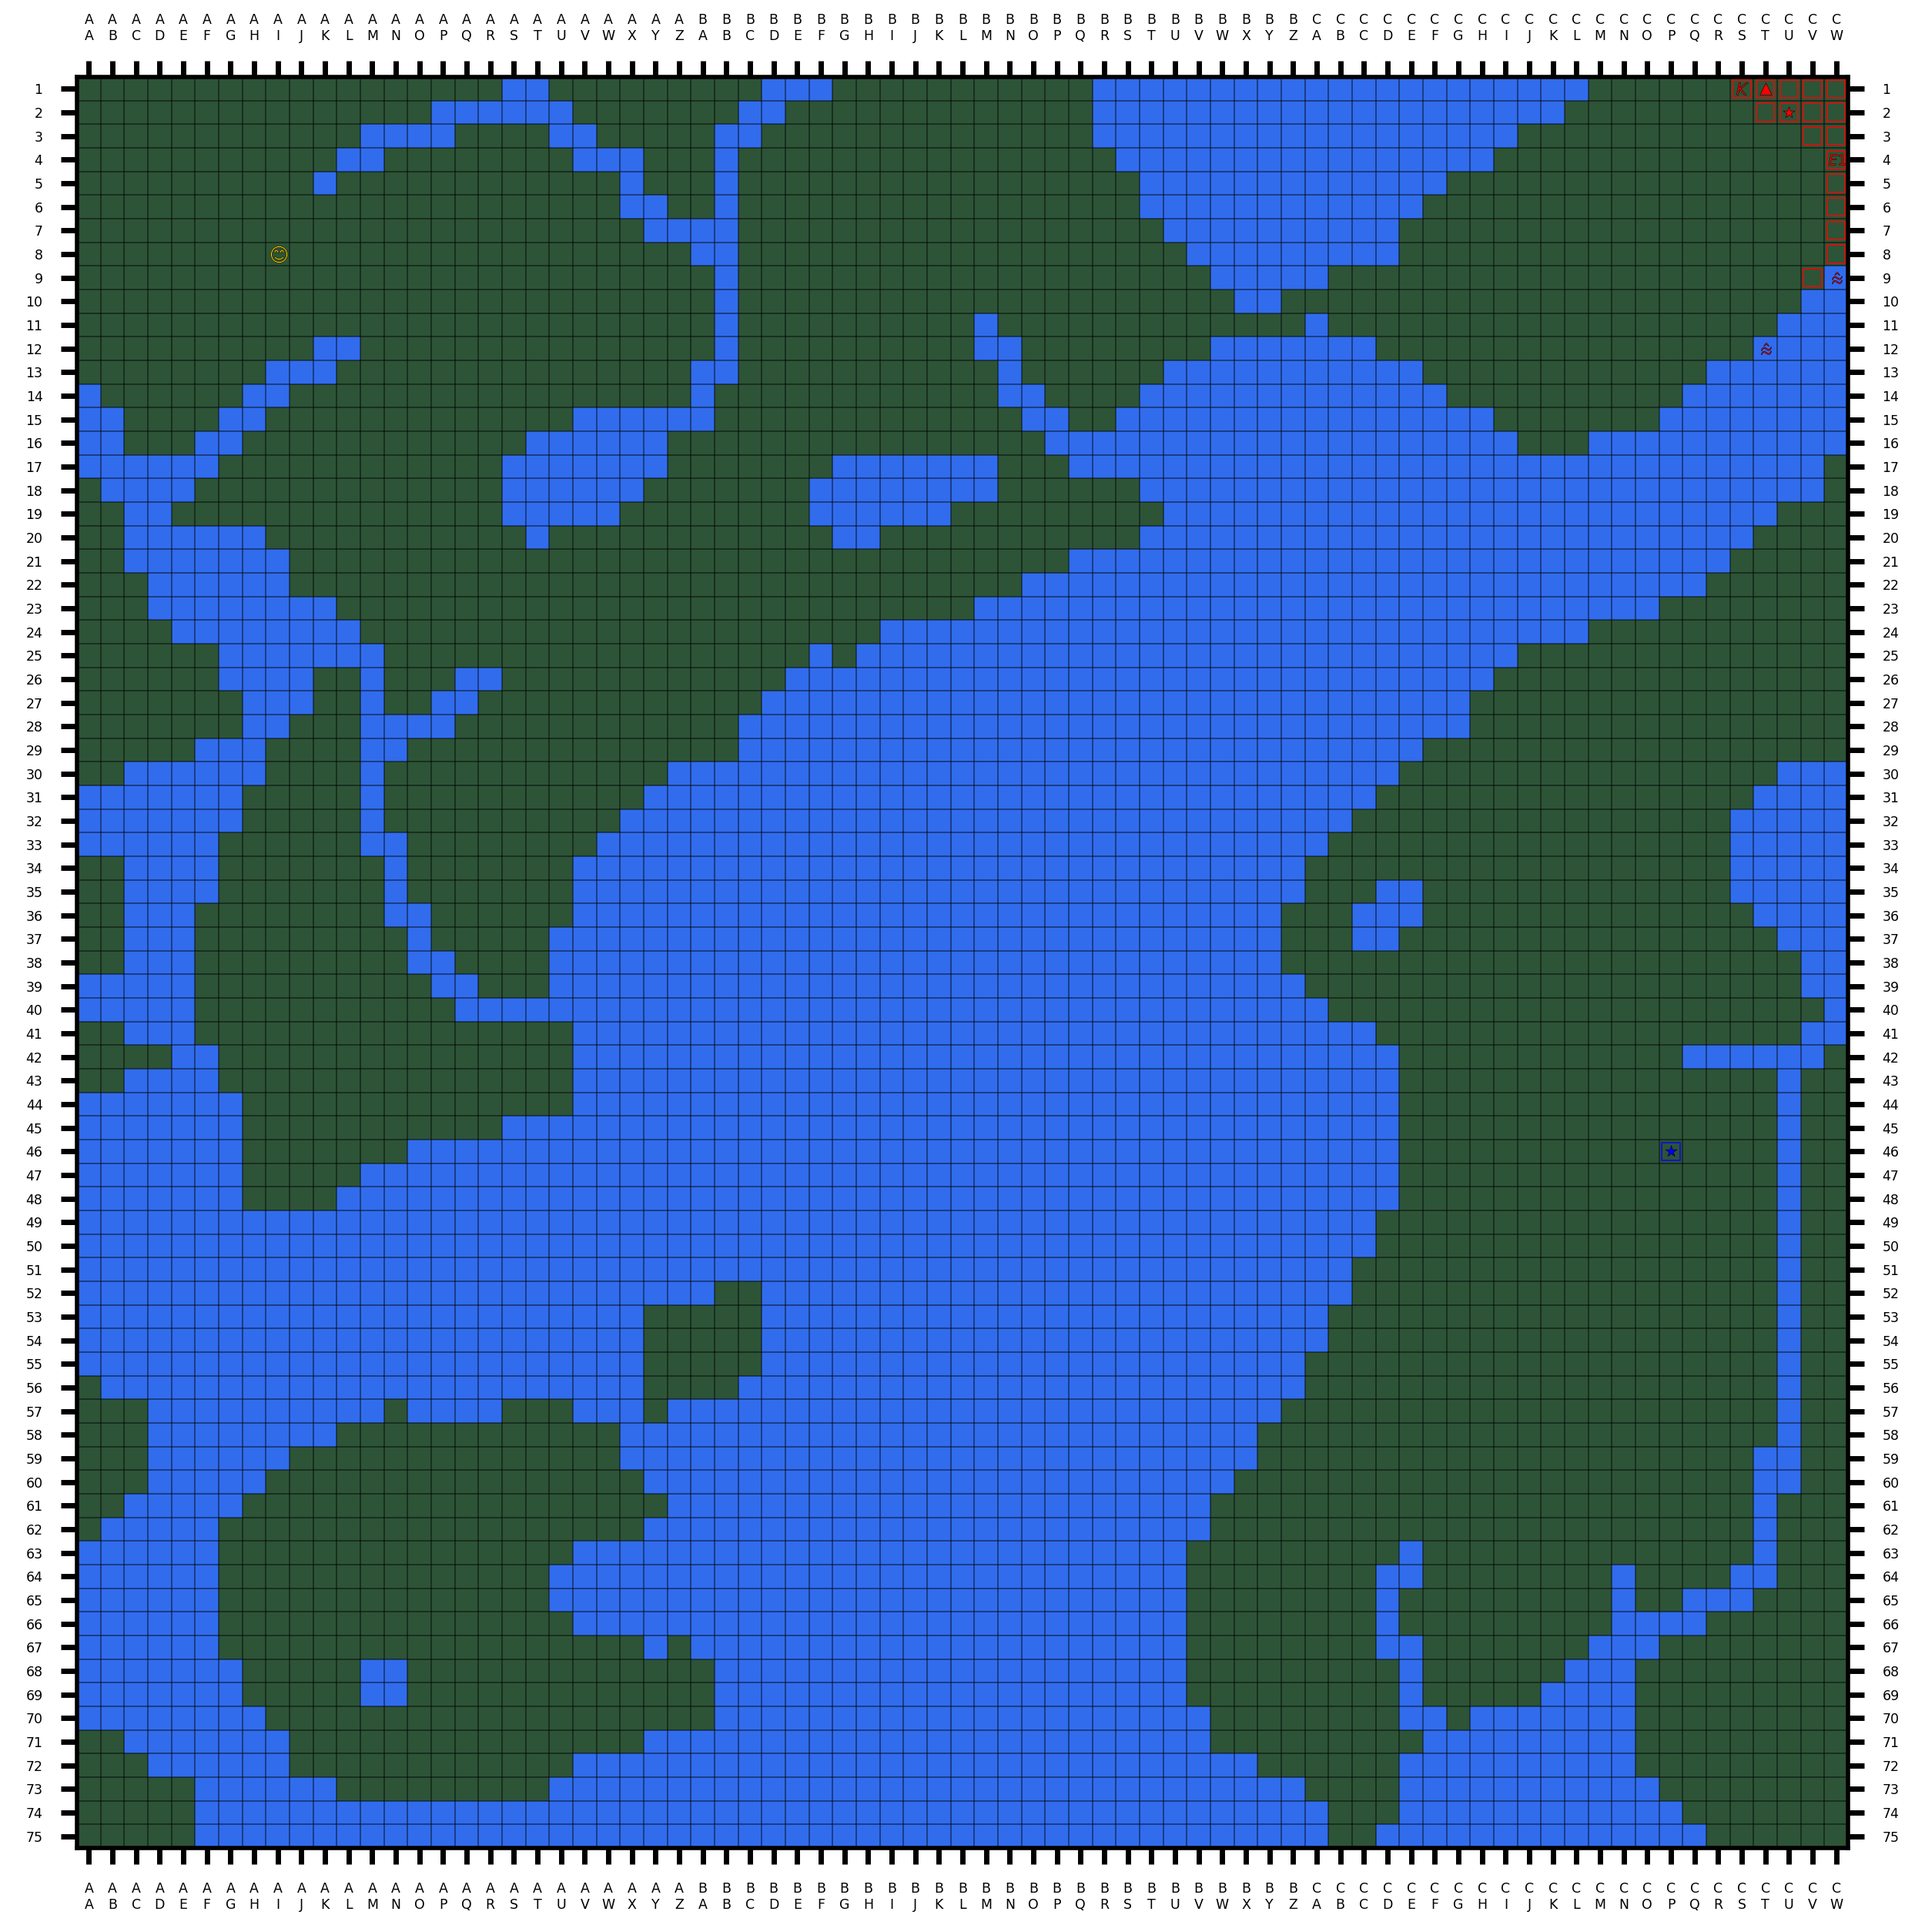
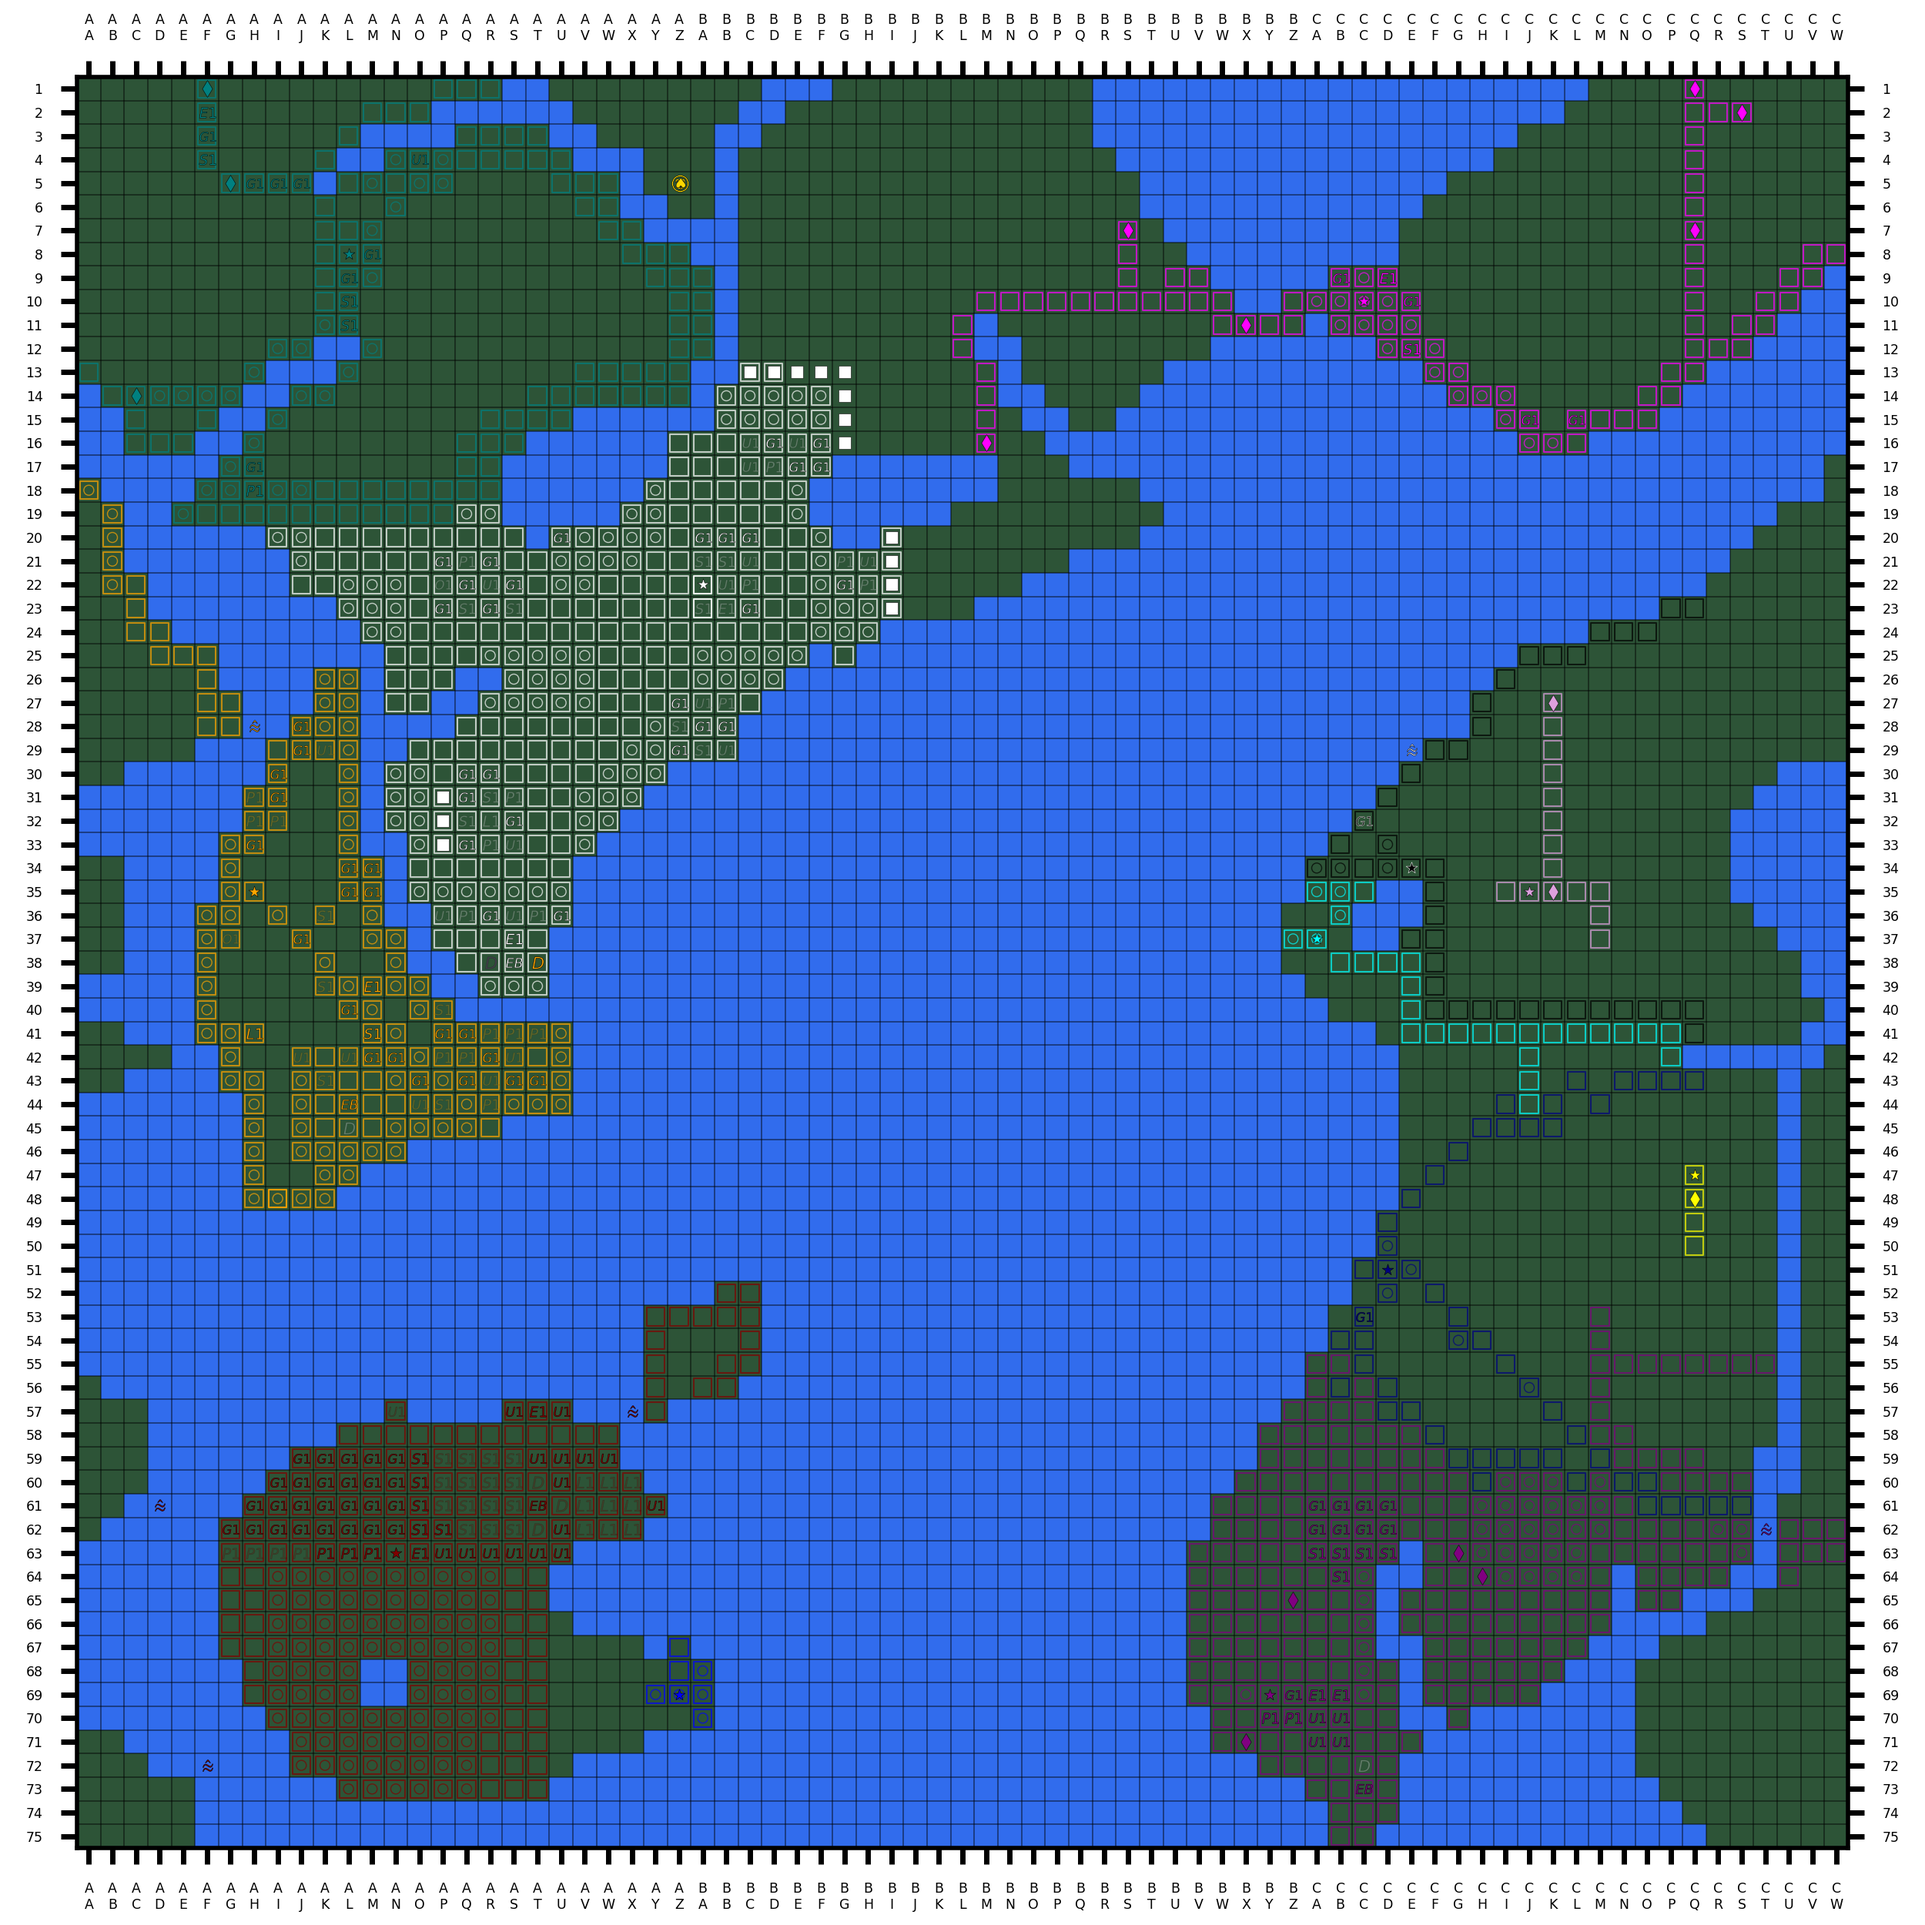
MAP UPDATE REEEE. dumb numpy string types

diff --git a/Map.py b/Map.py
@@ -581,7 +581,7 @@ async def run(inData, payload, message):
                 for unit in Data[guild]['Units'].keys():
                     msg = unit + ':\n'
                     for k in Data[guild]['Units'][unit]:
-                        msg += '\t' + k + ': ' + str(Data[guild]['Units'][unit][k]) + '\n'
+                        msg += '\t' + k + ': ' + repr(str(Data[guild]['Units'][unit][k])) + '\n'
                     addMsgQueue(message.channel, '```' + msg + '```')
 
             if payload['Content'].lower() in ['!tech', '!techs']:
@@ -2913,18 +2913,15 @@ async def plotMap(channel, postReply=True):
                 obj = np.asarray(player['Markers']['Shape'])
                 obj[obj == 'Claim'] = 'None'
                 obj[obj == 'Capital'] = '*'
-                for unit in Data[guild]['Units'].keys():
-                    obj[obj == unit] = Data[guild]['Units'][unit]['Marker']
+                obj[obj == ''] = " "
+                obj[obj == ""] = " "
 
                 for i in range(obj.shape[0]):
                     outline = 'black'
+                    objMarker = str(obj[i])
                     if color == 'black': outline = 'white'
 
-                    if obj[i] == '$$$':
-                        print('Error: $$$',x,y)
-                        obj[i] = "$?$"
-
-                    if obj[i] != "" and player != botName:
+                    if objMarker != " " and player != botName:
                         ax.scatter(x[i], y[i], c="none", edgecolors=color,
                                    linewidths=0.3, s=11, marker='s', alpha=0.7)
 
@@ -2932,13 +2929,11 @@ async def plotMap(channel, postReply=True):
                     if 'Unit' in player['Markers']['Properties'][i] and 'DisabledAndPermanent' in player['Markers']['Properties'][i]['Unit']:
                         alpha = 0.25
                     if player['Markers']['Properties'][i].get('Unit') is not None:
-                        unit = player['Markers']['Properties'][i]['Unit']['Name']
-                        obj[i] = Data[guild]['Units'][unit]['Marker']
-                        if obj[i][0] == '"' and obj[i][-1] == '"':
-                            obj[i] = '$' + obj[i][1:-1] + '$'
-                            if obj[i] == '$$$':
-                                print('Error: $$$', x, y)
-                                obj[i] = "$?$"
+                        unit = player['Markers']['Properties'][i]['Unit']['Name'].lower()
+                        objMarker = str(Data[guild]['Units'][unit]['Marker'])
+                        if objMarker[0] == '\"' and objMarker[-1] == '\"':
+                            objMarker = str('$' + str(Data[guild]['Units'][unit]['Marker'])[1:-1] + '$')
+
                         if player['Markers']['Properties'][i]['Unit'].get('Boost'):
                             outline = 'Gold'
                     elif player['Markers']['Properties'][i].get('Harvest') is not None:
@@ -2955,26 +2950,22 @@ async def plotMap(channel, postReply=True):
                                        alpha=0.7)
 
                     try:
-                        if len(obj[i]) <= 3: ax.scatter(x[i], y[i], c=color, alpha=alpha, s=5.0, linewidths=0.075, edgecolors=outline,
-                                       marker=obj[i])
+                        if len(objMarker) <= 3: ax.scatter(x[i], y[i], c=color, alpha=alpha, s=5.0, linewidths=0.075, edgecolors=outline,
+                                       marker=objMarker)
                         else: ax.scatter(x[i], y[i], c=color, alpha=alpha, s=10.0, linewidths=0.06, edgecolors=outline,
-                                       marker=obj[i])
+                                       marker=objMarker)
                     except:
                         try:
-                            if len(obj[i]) <= 3: ax.scatter(x[i], y[i], c=color, alpha=alpha, s=5.0, linewidths=0.075, edgecolors=outline,
-                                           marker='$' + obj[i] + '$')
+                            if len(objMarker) <= 3: ax.scatter(x[i], y[i], c=color, alpha=alpha, s=5.0, linewidths=0.075, edgecolors=outline,
+                                           marker='$' + objMarker + '$')
                             else: ax.scatter(x[i], y[i], c=color, alpha=alpha, s=10.0, linewidths=0.06, edgecolors=outline,
-                                           marker='$' + obj[i] + '$')
+                                           marker='$' + objMarker + '$')
                         except:
-                            if len(obj[i]) <= 3: ax.scatter(x[i], y[i], c=color, alpha=alpha, s=5.0, linewidths=0.075, edgecolors=outline,
+                            print(repr( objMarker),player['Markers']['Properties'][i]['Unit']['Name'].lower(), Data[guild]['Units'][player['Markers']['Properties'][i]['Unit']['Name'].lower()]['Marker'],player['Markers']['Properties'][i].get('Unit'),'$' + objMarker[1:-1] + '$')
+                            if len(objMarker) <= 3: ax.scatter(x[i], y[i], c=color, alpha=alpha, s=5.0, linewidths=0.075, edgecolors=outline,
                                            marker='$?$')
                             else: ax.scatter(x[i], y[i], c=color, alpha=alpha, s=10.0, linewidths=0.06, edgecolors=outline,
                                            marker='$?$')
-                    '''
-                    if 'DisabledAndPermanent' in player['Markers']['Properties'][i]:
-                        if player['Markers']['Properties'][i]['DisabledAndPermanent']: color = 'red'
-                        ax.scatter(x[i], y[i], c=color, alpha='1.0', s=8.0, marker='$X$', edgecolors='None')
-                    '''
 
                     if player['Markers']['Properties'][i].get('Unit') is not None:
                         if player['Markers']['Properties'][i]['Unit'].get('Artifact'):
@@ -3042,36 +3033,30 @@ async def plotMoon(channel, postReply=True):
                 if len(player['Markers']['Location']) == 0: continue
                 x, y = np.asarray(player['Markers']['Location']).T
                 x = x - 76
-
                 obj = np.asarray(player['Markers']['Shape'])
                 obj[obj == 'Claim'] = 'None'
                 obj[obj == 'Colony'] = '*'
+                obj[obj == ''] = ""
                 for unit in Data[guild]['Units'].keys():
                     obj[obj == unit] = Data[guild]['Units'][unit]['Marker']
 
                 for i in range(obj.shape[0]):
+                    objMarker = str(obj[i])
                     outline = 'black'
                     if color == 'black': outline = 'white'
 
-                    if obj[i] != "" and player != botName:
+                    if objMarker != "" and player != botName:
                         ax.scatter(x[i], y[i], c="none", edgecolors=color,
                                    linewidths=0.9, s=11*8, marker='s', alpha=0.7)
-
-                    if obj[i] == '$$$':
-                        print('Error: $$$',x,y)
-                        obj[i] = "$?$"
 
                     alpha = 1.0
                     if 'Unit' in player['Markers']['Properties'][i] and 'DisabledAndPermanent' in player['Markers']['Properties'][i]['Unit']:
                         alpha = 0.25
                     if player['Markers']['Properties'][i].get('Unit') is not None:
                         unit = player['Markers']['Properties'][i]['Unit']['Name']
-                        obj[i] = Data[guild]['Units'][unit]['Marker']
-                        if obj[i][0] == '"' and obj[i][-1] == '"':
-                            obj[i] = '$' + obj[i][1:-1] + '$'
-                            if obj[i] == '$$$':
-                                print('Error: $$$', x, y)
-                                obj[i] = "$?$"
+                        objMarker = Data[guild]['Units'][unit]['Marker']
+                        if objMarker[0] == '"' and objMarker[-1] == '"':
+                            objMarker = '$' + objMarker[1:-1] + '$'
                         if player['Markers']['Properties'][i]['Unit'].get('Boost'):
                             outline = 'Gold'
                     elif player['Markers']['Properties'][i].get('Harvest') is not None:
@@ -3088,15 +3073,20 @@ async def plotMoon(channel, postReply=True):
                                        alpha=0.7)
 
                     try:
-                        if len(obj[i]) <= 3: ax.scatter(x[i], y[i], c=color, alpha=alpha, s=5.0*8, linewidths=0.075*3, edgecolors=outline,
-                                       marker=obj[i])
+                        if len(objMarker) <= 3: ax.scatter(x[i], y[i], c=color, alpha=alpha, s=5.0*8, linewidths=0.075*3, edgecolors=outline,
+                                       marker=objMarker)
                         else: ax.scatter(x[i], y[i], c=color, alpha=alpha, s=10.0*8, linewidths=0.06*3, edgecolors=outline,
-                                       marker=obj[i])
+                                       marker=objMarker)
                     except:
-                        if len(obj[i]) <= 3: ax.scatter(x[i], y[i], c=color, alpha=alpha, s=5.0*8, linewidths=0.075*3, edgecolors=outline,
-                                       marker='$' + obj[i] + '$')
-                        else: ax.scatter(x[i], y[i], c=color, alpha=alpha, s=10.0*8, linewidths=0.06*3, edgecolors=outline,
-                                       marker='$' + obj[i] + '$')
+                        if len(objMarker) <= 3:
+                            ax.scatter(x[i], y[i], c=color, alpha=alpha, s=5.0, linewidths=0.075,
+                                       edgecolors=outline,
+                                       marker='$' + objMarker + '$')
+                        else:
+                            ax.scatter(x[i], y[i], c=color, alpha=alpha, s=10.0, linewidths=0.06,
+                                       edgecolors=outline,
+                                       marker='$' + objMarker + '$')
+
 
 
 
